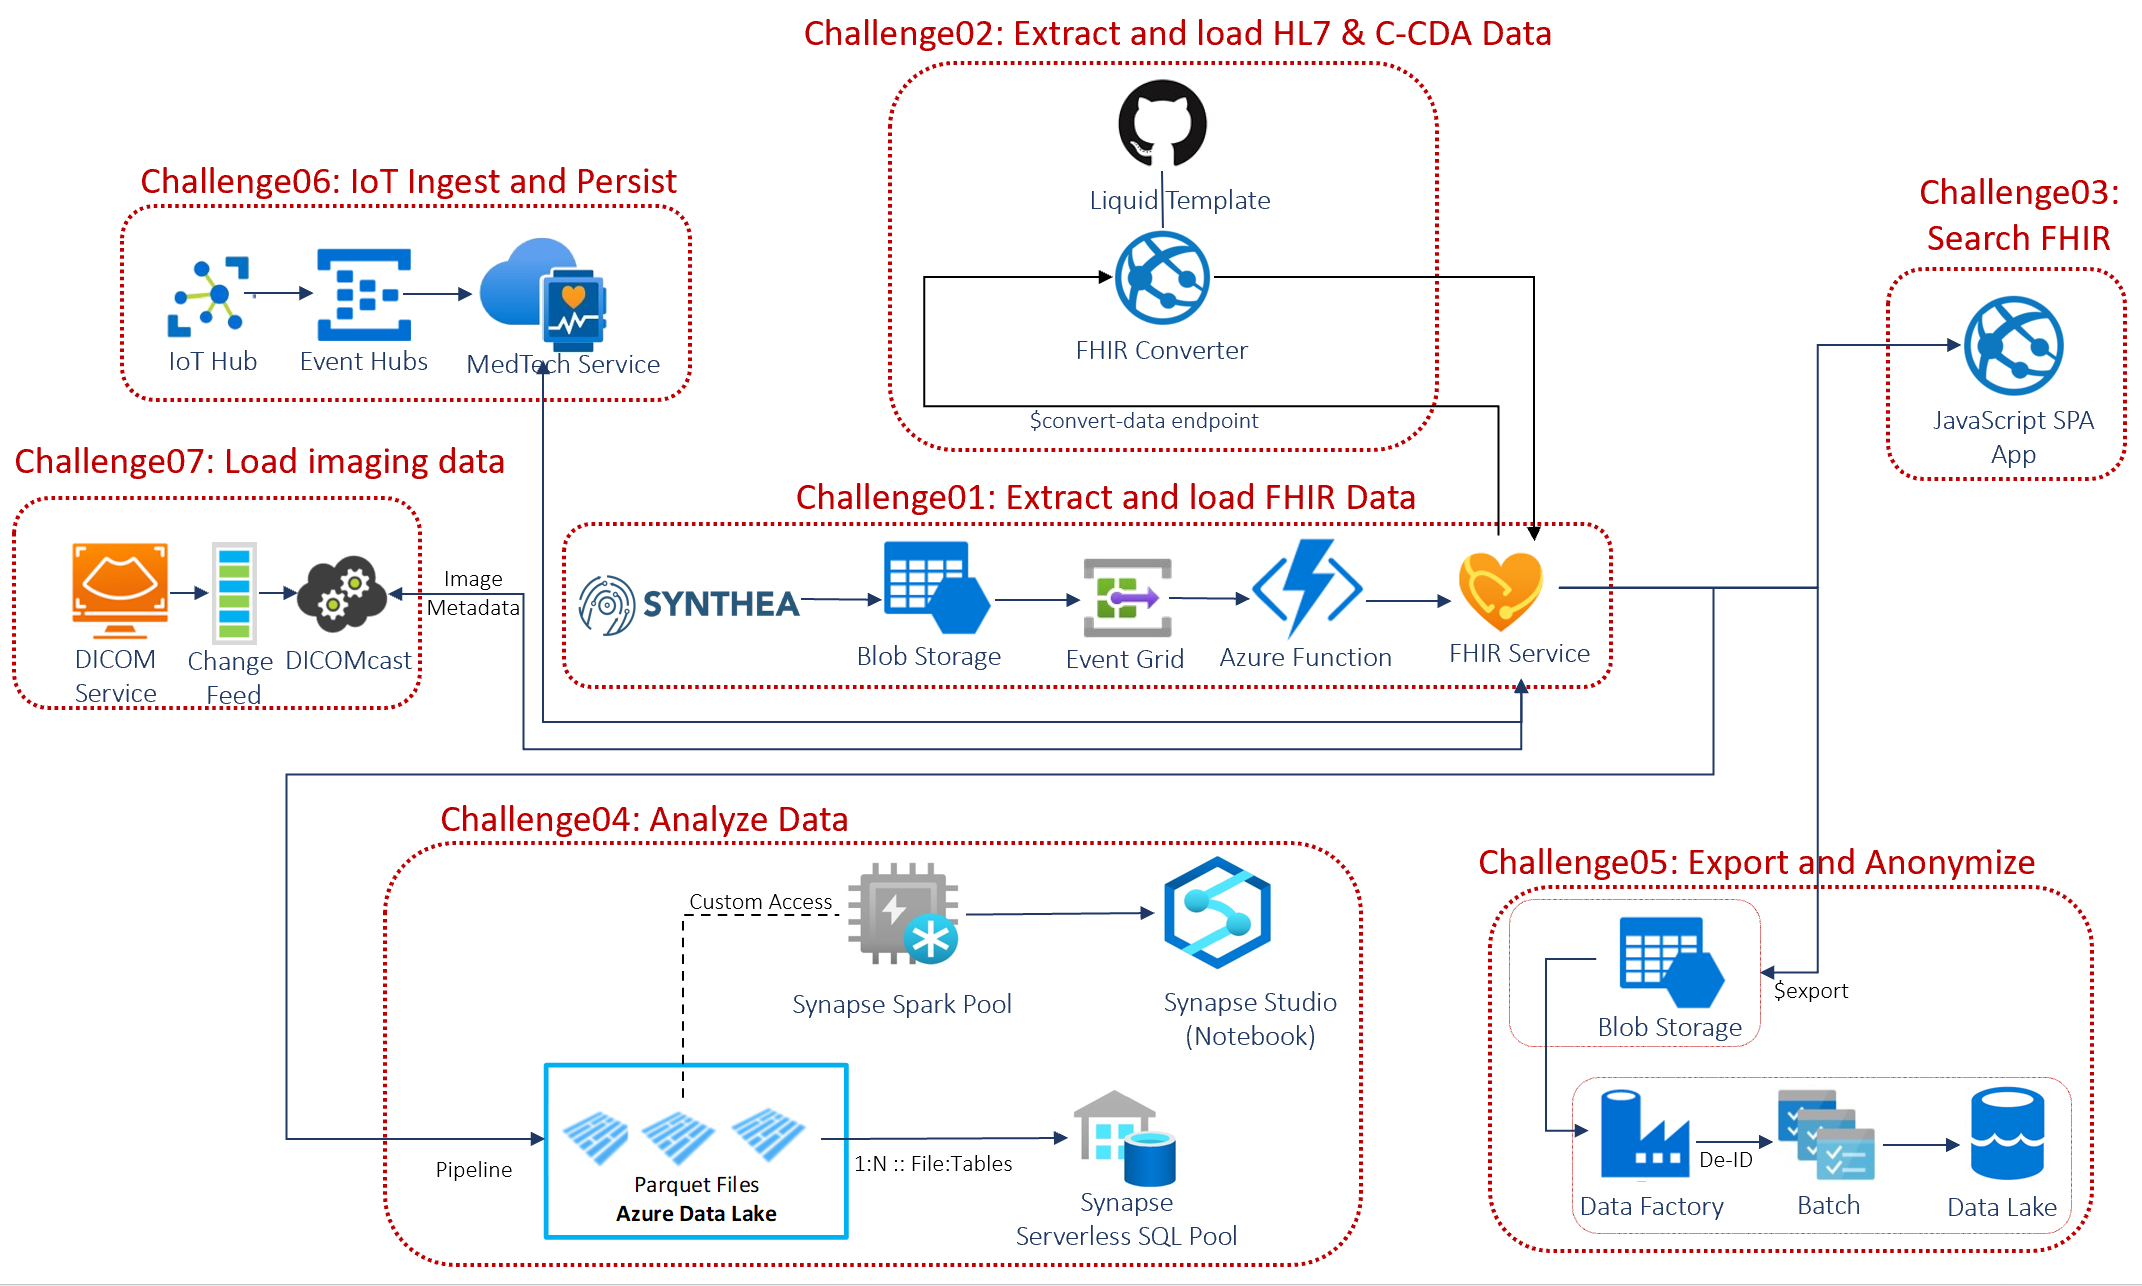
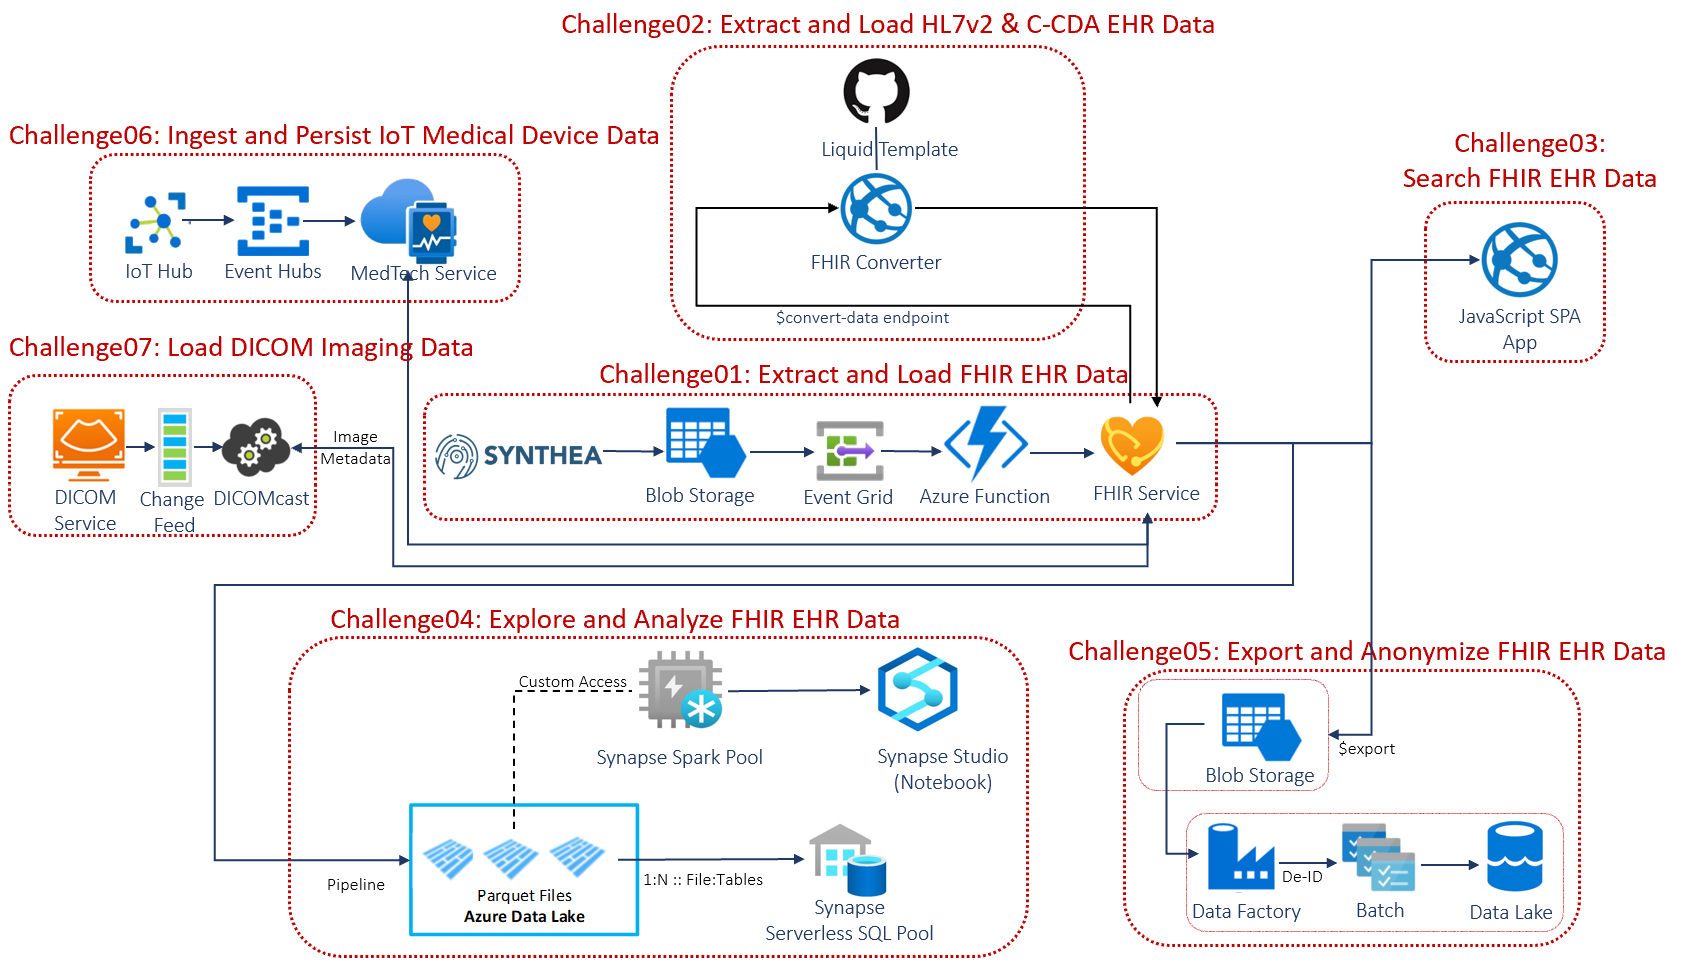
Update challenge titles

diff --git a/027-FHIRPoweredHealthcare/Coach/readme.md b/027-FHIRPoweredHealthcare/Coach/readme.md
@@ -13,22 +13,22 @@ This hack includes an optional [lecture presentation](Lectures.pptx) that featur
 **These challenges must be completed in order:**
 - Challenge 0: **[Pre-requisites - Ready, Set, GO!](Student/Challenge00.md)**
     - Required tools needed to implement the hack challenges
-- Challenge 1: **[Extract and load FHIR synthetic Electronic Health Record (EHR) data](Student/Challenge01.md)**
+- Challenge 1: **[Extract and Load FHIR EHR data](Student/Challenge01.md)**
     - Deploy FHIR service in Azure Health Data Services platform
     - Generate and load synthetic Electronic Health Record (EHR) data into FHIR Service.
 
 **These challenges can be completed in any order:**
-- Challenge 2: **[Extract, transform and load HL7v2 and C-CDA EHR data](Student/Challenge02.md)**
+- Challenge 2: **[Extract and Load HL7v2 and C-CDA EHR data](Student/Challenge02.md)**
     - Convert and Load HL7v2 and C-CDA clinical data into FHIR Service.
-- Challenge 3: **[Create a new Single Page App (SPA) for patient search](Student/Challenge03.md)**
-    - Develop React Single Page App (SPA) to search and view FHIR patient data.
-- Challenge 4: **[Analyze and Visualize FHIR data](Student/Challenge04.md)**
+- Challenge 3: **[Search FHIR EHR Data](Student/Challenge03.md)**
+    - Develop Single Page App (SPA) to search and view FHIR EHR data.
+- Challenge 4: **[Explore and Analyze FHIR EHR data](Student/Challenge04.md)**
     - Transform and explore FHIR data for secondary use analytics.
-- Challenge 5: **[Bulk export, anonymize and store FHIR data into Data Lake storage](Student/Challenge05.md)**
-    - Export and anonymize FHIR data for secondary use.
-- Challenge 6: **[Stream IoMT Device data into FHIR using MedTech service](Student/Challenge06.md)**
+- Challenge 5: **[Export and Anonymize FHIR EHR Data](Student/Challenge05.md)**
+    - Export, anonymize and store FHIR EHR data in data lake for secondary use.
+- Challenge 6: **[Ingest and Persist IoT Medical Device Data](Student/Challenge06.md)**
     - Ingest, transform and load medical IoT device data into FHIR using MedTech service.
-- Challenge 7: **[ Ingest, search & retrieve DICOM imaging data](Student/Challenge07.md)**
+- Challenge 7: **[ Load Imaging Data](Student/Challenge07.md)**
     - Ingest, search and retrieve imaging data persisted in the DICOM service.
 
 ## Coach Prerequisites
@@ -45,26 +45,27 @@ Always refer students to the [What The Hack website](https://aka.ms/wth) for the
 
 **NOTE:** Students should **not** be given a link to the What The Hack repo before or during a hack. The student guide does **NOT** have any links to the Coach's guide or the What The Hack repo on GitHub.
 
-### Additional Coach Prerequisites (Optional)
-
-### Pre-Select Your Path For Container Content
-Coaches, be sure to read the [Coach Guidance for Challenge 1](./Solution-01.md). You will need to select a proper path based on the learning objectives of the organization (to be decided PRIOR TO the hack!).  Select the proper path after consulting with the organization's stakeholder(s) for the hack.
-
 ## Azure Requirements
 
 This hack requires students to have access to an Azure subscription where they can create and consume Azure resources. These Azure requirements should be shared with a stakeholder in the organization that will be providing the Azure subscription(s) that will be used by the students.
 
 This hack will deploy the following Azure resources and OSS components to implement the hack's challenges:
-- Azure Health Data Services workspace (managed PaaS)
-- FHIR service	(managed FHIR server)
-- FHIR Loader (OSS) Function App (for ingesting FHIR data in Challenge 1)
+- Azure Health Data Services workspace (managed PaaS in various challenges)
+- FHIR service	(managed FHIR server in challenge 1)
+- DICOM service (managed DICOM server in challenge 7)
+- MedTech service (managed PaaS to ingest and convert IoT medical device data into FHIR in challenge 6)
+- FHIR Loader (OSS) Function App based event-driven pipeline (for ingesting FHIR data in Challenge 1)
+- Azure Function (managed Serverless solution to host FHIR Loader app in challenge 1)
+- FHIR Analytics Pipeline - FHIR to Synapse sync agent (OSS pipeline to move FHIR data in FHIR service to Azure Data Lake for analytics with Synapse in challenge 4)
+- Serverless SQL pool in Azure Synapse Analytics (Query service over the data in your data lake in challenge 4)
 - App Service Plan (Shared by FHIR Loader function apps)
-- Storage account (Blob storage for FHIR service $export operation in Challenge 5)
-- Storage account (Storage account for FHIR Loader)
-- Key Vault (Stores secrets and configuration settings)
-- Log Analytics Workspace (Logs the activity of deployed components)
-- Application Insights (Monitors FHIR Loader application)
+- Storage account (Data Lake/Blob storage for various challenges)
+- Key Vault (Stores secrets and configuration settings in various challenges)
+- Log Analytics Workspace (Logs the activity of deployed components in various challenges)
+- Application Insights (Monitors FHIR Loader application in various challenges)
 - Event Grid System Topic (Triggers processing of FHIR bundles placed in the FHIR Loader storage account)
+- Azure Data Factory (Export/Anonymize pipeline in challenge 5)
+- Event Hub (managed event ingesting service in challenge 6)
 
 ## Suggested Hack Agenda (Optional)
 

diff --git a/027-FHIRPoweredHealthcare/Student/Challenge06.md b/027-FHIRPoweredHealthcare/Student/Challenge06.md
@@ -1,10 +1,10 @@
-# Challenge 6: Stream IoMT Device data into FHIR using MedTech service
+# Challenge 6: : Ingest and Persist IoT Medical Device Data 
 
 [< Previous Challenge](./Challenge05.md) - **[Home](../readme.md)** - [Next Challenge>](./Challenge07.md)
 
 ## Introduction
 
-In this challenge, you will work with medical IoT device data using the **[MedTech service](https://docs.microsoft.com/en-us/azure/healthcare-apis/iot/get-started-with-iot)** in Azure Health Data Services.  You will use **[MedTech service toolkit](https://github.com/microsoft/iomt-fhir/tree/main/tools/data-mapper)** to transform medical IoT device data into Fast Healthcare Interoperability Resources (FHIR®)-based Observation resources.  You will deploy a **[MedTech service data pipeline](https://learn.microsoft.com/en-us/azure/healthcare-apis/iot/iot-data-flow)** to ingest medical IoT data, normaize and group these messages,transform the grouped-normalized messages into FHIR-based Observation resources, and then persist the transformed messages into the FHIR service (previously deployed in challenge 1).
+In this challenge, you will work with IoT medical device data using the **[MedTech service](https://docs.microsoft.com/en-us/azure/healthcare-apis/iot/get-started-with-iot)** in Azure Health Data Services.  You will use **[MedTech service toolkit](https://github.com/microsoft/iomt-fhir/tree/main/tools/data-mapper)** to transform IoT medical device data into Fast Healthcare Interoperability Resources (FHIR®)-based Observation resources.  You will deploy a **[MedTech service data pipeline](https://learn.microsoft.com/en-us/azure/healthcare-apis/iot/iot-data-flow)** to ingest medical IoT data, normaize and group these messages,transform the grouped-normalized messages into FHIR-based Observation resources, and then persist the transformed messages into the FHIR service (previously deployed in challenge 1).
 
 The **[MedTech service](https://docs.microsoft.com/en-us/azure/healthcare-apis/iot/get-started-with-iot)** in Azure Health Data Services uses an event hub to ingests streaming event data from IoT medical devices, transforms them into FHIR-based Observation resources, retrieves associated Patient resource from FHIR service, adds them as reference to the Observation resource created, and then persists the transformed messages to the FHIR service.
 

diff --git a/027-FHIRPoweredHealthcare/Coach/Solution06.md b/027-FHIRPoweredHealthcare/Coach/Solution06.md
@@ -1,10 +1,10 @@
-# Coach's Guide: Challenge 6 - Stream IoMT Device data into FHIR using MedTech service
+# Coach's Guide: Challenge 6 - : Ingest and Persist IoT Medical Device Data
 
 [< Previous Challenge](./Solution05.md) - **[Home](../readme.md)**
 
 ## Notes & Guidance
 
-In this challenge, you will work with medical IoT device data using the **[MedTech service](https://docs.microsoft.com/en-us/azure/healthcare-apis/iot/get-started-with-iot)** in Azure Health Data Services.  You will use **[MedTech service toolkit](https://github.com/microsoft/iomt-fhir/tree/main/tools/data-mapper)** to transform medical IoT device data into Fast Healthcare Interoperability Resources (FHIR®)-based Observation resources.  You will deploy a **[MedTech service data pipeline](microsoft.com/en-us/azure/healthcare-apis/iot/iot-data-flow)** to ingest medical IoT data, normaize and group these messages,transform the grouped-normalized messages into FHIR-based Observation resources, and then persist the transformed messages into the FHIR service (previously deployed in challenge 1).
+In this challenge, you will work with IoT medical device data using the **[MedTech service](https://docs.microsoft.com/en-us/azure/healthcare-apis/iot/get-started-with-iot)** in Azure Health Data Services.  You will use **[MedTech service toolkit](https://github.com/microsoft/iomt-fhir/tree/main/tools/data-mapper)** to transform IoT medical device data into Fast Healthcare Interoperability Resources (FHIR®)-based Observation resources.  You will deploy a **[MedTech service data pipeline](microsoft.com/en-us/azure/healthcare-apis/iot/iot-data-flow)** to ingest medical IoT data, normaize and group these messages,transform the grouped-normalized messages into FHIR-based Observation resources, and then persist the transformed messages into the FHIR service (previously deployed in challenge 1).
 
 The **[MedTech service](https://docs.microsoft.com/en-us/azure/healthcare-apis/iot/get-started-with-iot)** in Azure Health Data Services uses an event hub to ingests streaming event data from IoT medical devices, transforms them into FHIR-based Observation resources, retrieves associated Patient resource from FHIR service, adds them as reference to the Observation resource created, and then persists the transformed messages to the FHIR service.
 

diff --git a/027-FHIRPoweredHealthcare/Student/Challenge00.md b/027-FHIRPoweredHealthcare/Student/Challenge00.md
@@ -12,6 +12,12 @@ This hack presents a series of challenges to help learners build knowledge, expe
 
 In general, you will walk away with the capabilities of Azure Health Data Services platform and a sense of confidence in deploying, configuring, and implementing health data solutions within the platform.  You will know how to ingest, transform, and connect health data using the Azure Health Data Service platform, and understand how these components fit together, which will prepare you to use Microsoft's health data tools in real-world solutions.
 
+Prerequisit knowledge in the following area is needed in completing this hack:
+- A solid foundation in Azure fundamentals and basic knowledge of Azure Active Directory
+- Familiarity with FHIR® and the solutions it provides versus other health data formats
+- Experience with making RESTful API requests using Postman or a similar API testing tool (like cURL or Fiddler)
+- Experience using Postman as your API testing tool
+
 Thank you for participating in the FHIR Powered Healthcare What The Hack. Before you can hack, you will need to set up some prerequisites.
 
 ## Common Prerequisites

diff --git a/027-FHIRPoweredHealthcare/Student/Challenge07.md b/027-FHIRPoweredHealthcare/Student/Challenge07.md
@@ -1,4 +1,4 @@
-# Challenge 7: Ingest, search & retrieve DICOM imaging data
+# Challenge 7: Load DICOM Imaging Data
 
 [< Previous Challenge](./Challenge06.md) - **[Home](../readme.md)**
 
@@ -43,7 +43,7 @@ You will deploy an instance of DICOM service in your Azure Health Data Service w
     - Select corresponding POST `Store-single-instance (xxx.dcm)` in `Conformance-as-Postman` collection for each sample DICOM files (red-triangle.dcm, green-square.dcm and blue-circle.dcm)
     - Select the appropriate .dcm file (downloaded previously) for each API call in the `Body` tab.
     - For each sample .dcm file, Send appropriate `POST Store-single-instance...` call to populate your DICOM service with the three .dcm single instance files.
-    
+
   - Use DICOM service API calls to Search for DICOM instance(s)
   - Use DICOM service API calls to Retrieve DICOM instance(s)
   - Check logs for changes in DICOM service via Change Feed

diff --git a/027-FHIRPoweredHealthcare/Coach/Solution07.md b/027-FHIRPoweredHealthcare/Coach/Solution07.md
@@ -1,4 +1,4 @@
-# Coach's Guide: Challenge 7 - Ingest, search & retrieve DICOM imaging data
+# Coach's Guide: Challenge 7 - Load DICOM Imaging Data
 
 [< Previous Challenge](./Solution06.md) - **[Home](../readme.md)**
 
@@ -34,7 +34,7 @@ In this challenge, you will deploy, configure and use **[DICOM service](https://
     - tenantId - AAD tenant ID (you also can find it in AAD -> Overview -> Tenant ID).
     - clientId - Application (client) ID for Postman service client app.
     - clientSecret - Client secret for your Postman app.
-    
+
     New values you need to input:
     - resource - https://dicom.healthcareapis.azure.com
     - baseUrl - Service URL appended with /v1. Go to Portal -> Resource Group -> DICOM service -> Service URL. Copy and add /v1 on the end: https://<workspace-name>-<dicom-service-name>.dicom.azurehealthcareapis.com/v1

diff --git a/027-FHIRPoweredHealthcare/Coach/Solution02.md b/027-FHIRPoweredHealthcare/Coach/Solution02.md
@@ -1,4 +1,4 @@
-# Coach's Guide: Challenge 2 - Extract, transform and load C-CDA synthetic medical data
+# Coach's Guide: Challenge 2 - Extract and Load HL7v2 & C-CDA EHR Data
 
 [< Previous Challenge](./Solution01.md) - **[Home](./readme.md)** - [Next Challenge>](./Solution03.md)
 

diff --git a/027-FHIRPoweredHealthcare/Coach/Solution05.md b/027-FHIRPoweredHealthcare/Coach/Solution05.md
@@ -1,4 +1,4 @@
-# Coach's Guide: Challenge 5 - Bulk export, anonymize and store FHIR data into Data Lake
+# Coach's Guide: Challenge 5 - : Export and Anonymize FHIR EHR Data
 
 [< Previous Challenge](./Solution04.md) - **[Home](../readme.md)** - [Next Challenge>](./Solution06.md)
 

diff --git a/027-FHIRPoweredHealthcare/Student/Challenge02.md b/027-FHIRPoweredHealthcare/Student/Challenge02.md
@@ -1,4 +1,4 @@
-# Challenge 2: Extract, transform and load HL7v2 and C-CDA Electronic Health Record (EHR) data
+# Challenge 2: Extract and Load HL7v2 & C-CDA EHR Data
 
 [< Previous Challenge](./Challenge01.md) - **[Home](../readme.md)** - [Next Challenge>](./Challenge03.md)
 

diff --git a/027-FHIRPoweredHealthcare/Coach/Solution01.md b/027-FHIRPoweredHealthcare/Coach/Solution01.md
@@ -1,4 +1,4 @@
-# Coach's Guide: Challenge 1 - Extract and load FHIR synthetic medical data
+# Coach's Guide: Challenge 1 - Extract and Load FHIR EHR Data
 
 [< Previous Challenge](./Solution00.md) - **[Home](./readme.md)** - [Next Challenge>](./Solution02.md)
 

diff --git a/027-FHIRPoweredHealthcare/Coach/Solution03.md b/027-FHIRPoweredHealthcare/Coach/Solution03.md
@@ -1,4 +1,4 @@
-# Coach's Guide: Challenge 3 - Create a new Single Page App (SPA) for patient search
+# Coach's Guide: Challenge 3 - Search FHIR EHR Data
 
 [< Previous Challenge](./Solution02.md) - **[Home](./readme.md)** - [Next Challenge>](./Solution04.md)
 

diff --git a/027-FHIRPoweredHealthcare/Coach/Solution04.md b/027-FHIRPoweredHealthcare/Coach/Solution04.md
@@ -1,4 +1,4 @@
-# Coach's Guide: Challenge 4 - Analyze and Visualize FHIR data
+# Coach's Guide: Challenge 4 - Explore and Analyze FHIR EHR Data
 
 [< Previous Challenge](./Solution03.md) - **[Home](../readme.md)** - [Next Challenge>](./Solution05.md)
 
